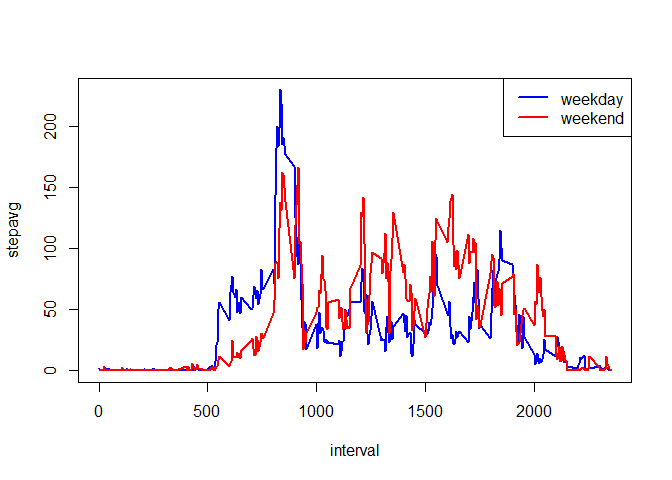
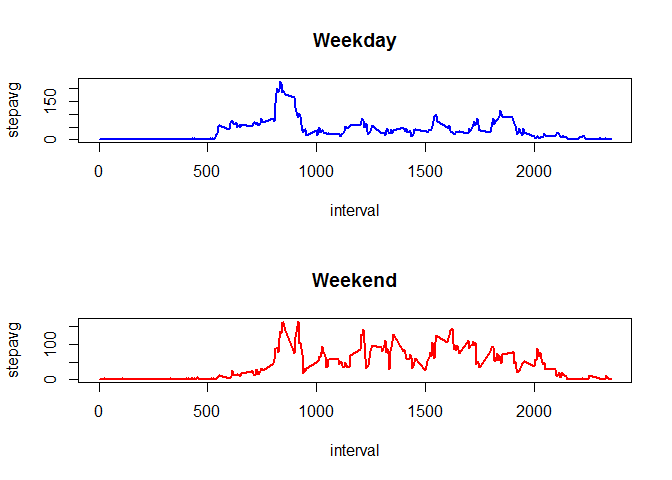
Final

diff --git a/PA1_template.html b/PA1_template.html
@@ -77,50 +77,65 @@ agginterval&lt;-aggregate(act$steps,list(act$interval),FUN=mean)</code></pre>
 </div>
 <div id="what-is-mean-total-number-of-steps-taken-per-day" class="section level2">
 <h2>What is mean total number of steps taken per day?</h2>
-<pre class="r"><code>hist(aggdate$steps,xlab=&quot;Steps&quot;,main=&quot;Steps per day&quot;)</code></pre>
+<pre class="r"><code>##histogram of the total number of steps taken each day
+hist(aggdate$steps,xlab=&quot;Steps&quot;,main=&quot;Steps per day&quot;)</code></pre>
[1 lines of base64/hex data omitted]
-<pre class="r"><code>mean(aggdate$steps,na.rm=TRUE)</code></pre>
+<pre class="r"><code>##Calculate and report the mean and median total number of steps taken per day
+mean(aggdate$steps,na.rm=TRUE)</code></pre>
 <pre><code>## [1] 10766.19</code></pre>
 <pre class="r"><code>median(aggdate$steps,na.rm=TRUE)</code></pre>
 <pre><code>## [1] 10765</code></pre>
 </div>
 <div id="what-is-the-average-daily-activity-pattern" class="section level2">
 <h2>What is the average daily activity pattern?</h2>
-<pre class="r"><code>agginterval&lt;-aggregate(act$steps,list(act$interval),FUN=mean)
+<pre class="r"><code>##average number of steps taken, averaged across all days 
+agginterval&lt;-aggregate(act$steps,list(act$interval),FUN=mean)
 plot(agginterval,type=&quot;l&quot;,xlab='Interval',ylab=&quot;steps&quot;)</code></pre>
[1 lines of base64/hex data omitted]
-<pre class="r"><code>agginterval[agginterval$x==max(agginterval$x),1]</code></pre>
+<pre class="r"><code>##Show 5-minute interval, on average across all the days in the dataset, which contains the maximum number of steps
+agginterval[agginterval$x==max(agginterval$x),1]</code></pre>
 <pre><code>## [1] 835</code></pre>
 </div>
 <div id="imputing-missing-values" class="section level2">
 <h2>Imputing missing values</h2>
-<pre class="r"><code>act&lt;-read.csv(&quot;activity\\activity.csv&quot;)
+<pre class="r"><code>## reload data to include missing values
+act&lt;-read.csv(&quot;activity\\activity.csv&quot;)
+
+##report the total number of missing values in the dataset
 sum(is.na(act))</code></pre>
 <pre><code>## [1] 2304</code></pre>
-<pre class="r"><code>names(agginterval)&lt;-c(&quot;interval&quot;,&quot;stepavg&quot;)
+<pre class="r"><code>##Fill in all of the missing values in the dataset with step average for missing interval
+names(agginterval)&lt;-c(&quot;interval&quot;,&quot;stepavg&quot;)
 act&lt;-merge(act,agginterval,by=c(&quot;interval&quot;))
 act$steps[is.na(act$steps)] &lt;- act$stepavg[is.na(act$steps)]
 
+##Create a new dataset that is equal to the original dataset but with the missing data filled in
 aggdate2&lt;-aggregate(act$steps,list(act$date),FUN=sum)
 names(aggdate2)&lt;-c(&quot;date&quot;,&quot;steps&quot;)
+
+##histogram of the total number of steps taken each day 
 hist(aggdate2$steps,xlab=&quot;Steps&quot;,main=&quot;Steps per day&quot;)</code></pre>
[1 lines of base64/hex data omitted]
-<pre class="r"><code>mean(aggdate2$steps)</code></pre>
+<pre class="r"><code>##Calculate and report the mean and median total number of steps taken per day
+mean(aggdate2$steps)</code></pre>
 <pre><code>## [1] 10766.19</code></pre>
 <pre class="r"><code>median(aggdate2$steps)</code></pre>
 <pre><code>## [1] 10766.19</code></pre>
 </div>
 <div id="are-there-differences-in-activity-patterns-between-weekdays-and-weekends" class="section level2">
 <h2>Are there differences in activity patterns between weekdays and weekends?</h2>
-<pre class="r"><code>act$date &lt;- as.Date(act$date)
+<pre class="r"><code>##Create a new factor variable in the dataset with two levels -- &quot;weekday&quot; and &quot;weekend&quot; indicating whether a given date is a weekday or weekend day
+act$date &lt;- as.Date(act$date)
 weekdays1 &lt;- c('Monday', 'Tuesday', 'Wednesday', 'Thursday', 'Friday')
 act$weekday &lt;- c('weekend', 'weekday')[(weekdays(act$date) %in% weekdays1)+1L]
 aggweekday&lt;-aggregate(act$steps,list(act$interval,act$weekday),FUN=mean)
 names(aggweekday)&lt;-c(&quot;interval&quot;,&quot;weekday&quot;,&quot;stepavg&quot;)
-with(aggweekday[aggweekday$weekday==&quot;weekday&quot;,],plot(interval,stepavg,type=&quot;l&quot;,col=&quot;blue&quot;,lwd=2))
-with(aggweekday[aggweekday$weekday==&quot;weekend&quot;,],lines(interval,stepavg,type=&quot;l&quot;,col = &quot;red&quot;,lwd=2))
-legend(&quot;topright&quot;, c(&quot;weekday&quot;,&quot;weekend&quot;), lty=c(1,1), lwd=c(2.5,2.5),col=c(&quot;blue&quot;,&quot;red&quot;))</code></pre>
[1 lines of base64/hex data omitted]
+
+##Make a panel plot containing a time series plot (i.e. type = &quot;l&quot;) of the 5-minute interval (x-axis) and the average number of steps taken, averaged across all weekday days or weekend days (y-axis).
+par(mfrow=c(2,1))
+with(aggweekday[aggweekday$weekday==&quot;weekday&quot;,],plot(interval,stepavg,type=&quot;l&quot;,col=&quot;blue&quot;,lwd=2,main=&quot;Weekday&quot;))
+with(aggweekday[aggweekday$weekday==&quot;weekend&quot;,],plot(interval,stepavg,type=&quot;l&quot;,col = &quot;red&quot;,lwd=2,main=&quot;Weekend&quot;))</code></pre>
[1 lines of base64/hex data omitted]
 </div>
 
 

diff --git a/PA1_template.md b/PA1_template.md
@@ -17,12 +17,14 @@ agginterval<-aggregate(act$steps,list(act$interval),FUN=mean)
 ## What is mean total number of steps taken per day?
 
 ```r
+##histogram of the total number of steps taken each day
 hist(aggdate$steps,xlab="Steps",main="Steps per day")
 ```
 
 ![](PA1_template_files/figure-html/unnamed-chunk-1-1.png)\
 
 ```r
+##Calculate and report the mean and median total number of steps taken per day
 mean(aggdate$steps,na.rm=TRUE)
 ```
 
@@ -41,6 +43,7 @@ median(aggdate$steps,na.rm=TRUE)
 ## What is the average daily activity pattern?
 
 ```r
+##average number of steps taken, averaged across all days 
 agginterval<-aggregate(act$steps,list(act$interval),FUN=mean)
 plot(agginterval,type="l",xlab='Interval',ylab="steps")
 ```
@@ -48,6 +51,7 @@ plot(agginterval,type="l",xlab='Interval',ylab="steps")
 ![](PA1_template_files/figure-html/unnamed-chunk-2-1.png)\
 
 ```r
+##Show 5-minute interval, on average across all the days in the dataset, which contains the maximum number of steps
 agginterval[agginterval$x==max(agginterval$x),1]
 ```
 
@@ -59,7 +63,10 @@ agginterval[agginterval$x==max(agginterval$x),1]
 ## Imputing missing values
 
 ```r
+## reload data to include missing values
 act<-read.csv("activity\\activity.csv")
+
+##report the total number of missing values in the dataset
 sum(is.na(act))
 ```
 
@@ -68,18 +75,23 @@ sum(is.na(act))
 ```
 
 ```r
+##Fill in all of the missing values in the dataset with step average for missing interval
 names(agginterval)<-c("interval","stepavg")
 act<-merge(act,agginterval,by=c("interval"))
 act$steps[is.na(act$steps)] <- act$stepavg[is.na(act$steps)]
 
+##Create a new dataset that is equal to the original dataset but with the missing data filled in
 aggdate2<-aggregate(act$steps,list(act$date),FUN=sum)
 names(aggdate2)<-c("date","steps")
+
+##histogram of the total number of steps taken each day 
 hist(aggdate2$steps,xlab="Steps",main="Steps per day")
 ```
 
 ![](PA1_template_files/figure-html/unnamed-chunk-3-1.png)\
 
 ```r
+##Calculate and report the mean and median total number of steps taken per day
 mean(aggdate2$steps)
 ```
 
@@ -98,14 +110,17 @@ median(aggdate2$steps)
 ## Are there differences in activity patterns between weekdays and weekends?
 
 ```r
+##Create a new factor variable in the dataset with two levels -- "weekday" and "weekend" indicating whether a given date is a weekday or weekend day
 act$date <- as.Date(act$date)
 weekdays1 <- c('Monday', 'Tuesday', 'Wednesday', 'Thursday', 'Friday')
 act$weekday <- c('weekend', 'weekday')[(weekdays(act$date) %in% weekdays1)+1L]
 aggweekday<-aggregate(act$steps,list(act$interval,act$weekday),FUN=mean)
 names(aggweekday)<-c("interval","weekday","stepavg")
-with(aggweekday[aggweekday$weekday=="weekday",],plot(interval,stepavg,type="l",col="blue",lwd=2))
-with(aggweekday[aggweekday$weekday=="weekend",],lines(interval,stepavg,type="l",col = "red",lwd=2))
-legend("topright", c("weekday","weekend"), lty=c(1,1), lwd=c(2.5,2.5),col=c("blue","red"))
+
+##Make a panel plot containing a time series plot (i.e. type = "l") of the 5-minute interval (x-axis) and the average number of steps taken, averaged across all weekday days or weekend days (y-axis).
+par(mfrow=c(2,1))
+with(aggweekday[aggweekday$weekday=="weekday",],plot(interval,stepavg,type="l",col="blue",lwd=2,main="Weekday"))
+with(aggweekday[aggweekday$weekday=="weekend",],plot(interval,stepavg,type="l",col = "red",lwd=2,main="Weekend"))
 ```
 
 ![](PA1_template_files/figure-html/unnamed-chunk-4-1.png)\
